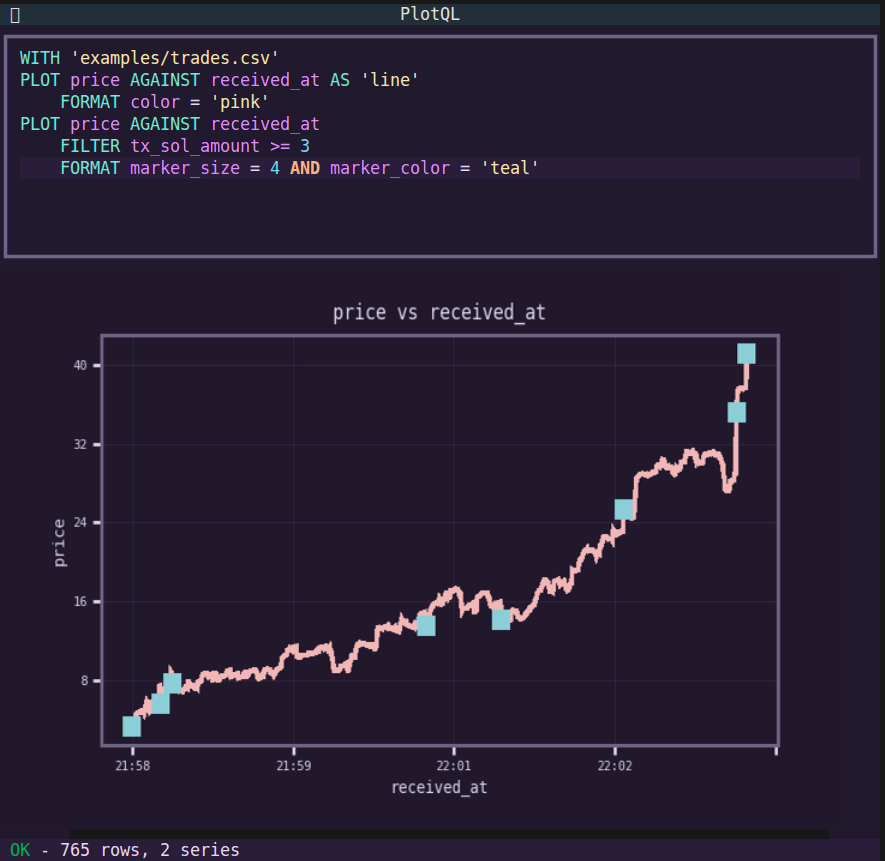
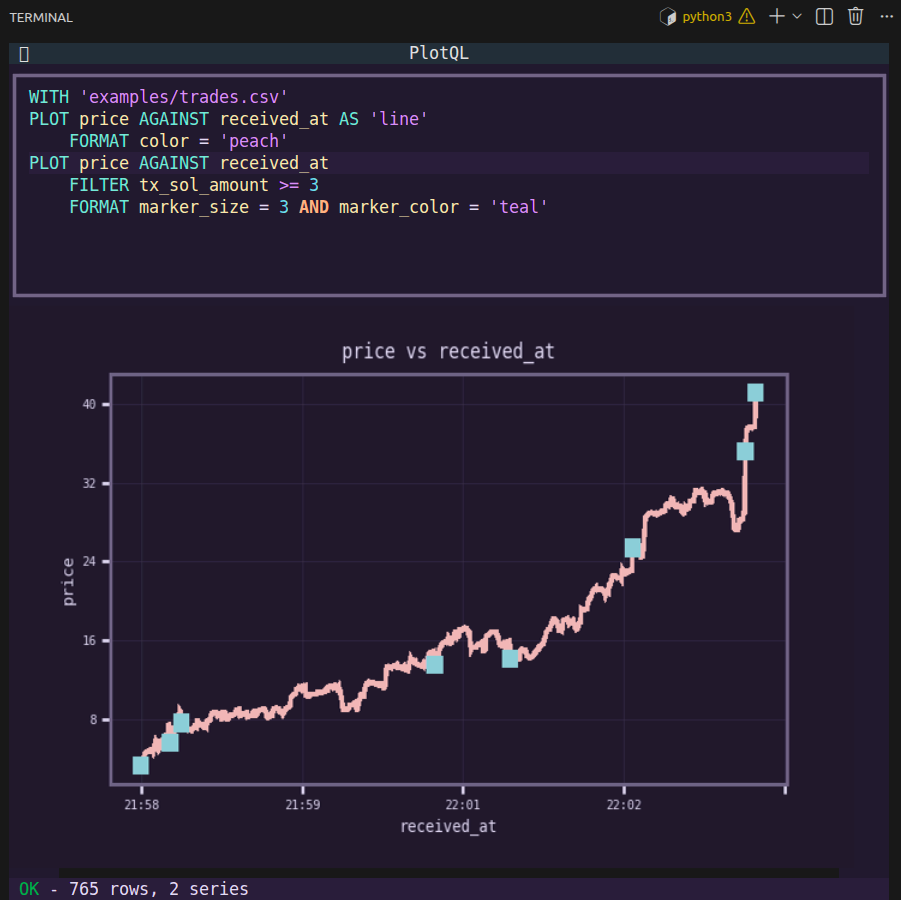
docs: update example query and screenshot

diff --git a/plotql/themes/vaporwave.py b/plotql/themes/vaporwave.py
@@ -26,10 +26,10 @@ THEME = PlotQLTheme(
     axes="#6e6a86",
 
     # Syntax highlighting - frequency-based color assignment
-    # Colors chosen to contrast against pink-purple background (cool tones pop)
+    # Colors chosen to contrast against pink-purple backfab387ground (cool tones pop)
     # HIGH FREQUENCY - soft but visible against the warm background
-    syntax_identifier="#cba6f7",   # Soft mint - cool green contrasts warm bg
-    syntax_string="#f9e2af",       # Soft butter yellow - warm but light enough
+    syntax_identifier="#f9e2af",   # Soft mint - cool green contrasts warm bg
+    syntax_string="#cba6f7",       # Soft butter yellow - warm but light enough
     syntax_keyword="#94e2d5",      # Soft seafoam - cool tone stands out
 
     # MEDIUM FREQUENCY - subtle accents

diff --git a/plotql/ui/tui.py b/plotql/ui/tui.py
@@ -97,10 +97,10 @@ logger = logging.getLogger(__name__)
 EXAMPLE_QUERY = """\
 WITH 'examples/trades.csv'
 PLOT price AGAINST received_at AS 'line'
-    FORMAT color = 'pink'
-PLOT price AGAINST received_at
-    FILTER tx_sol_amount >= 3
-    FORMAT marker_size = 5 AND marker_color = 'teal'
+  FORMAT color = 'peach'
+PLOT price AGAINST received_at AS 'scatter'
+  FILTER tx_sol_amount >= 3
+  FORMAT marker_size = 3 AND marker_color = 'teal'
 """
 
 
